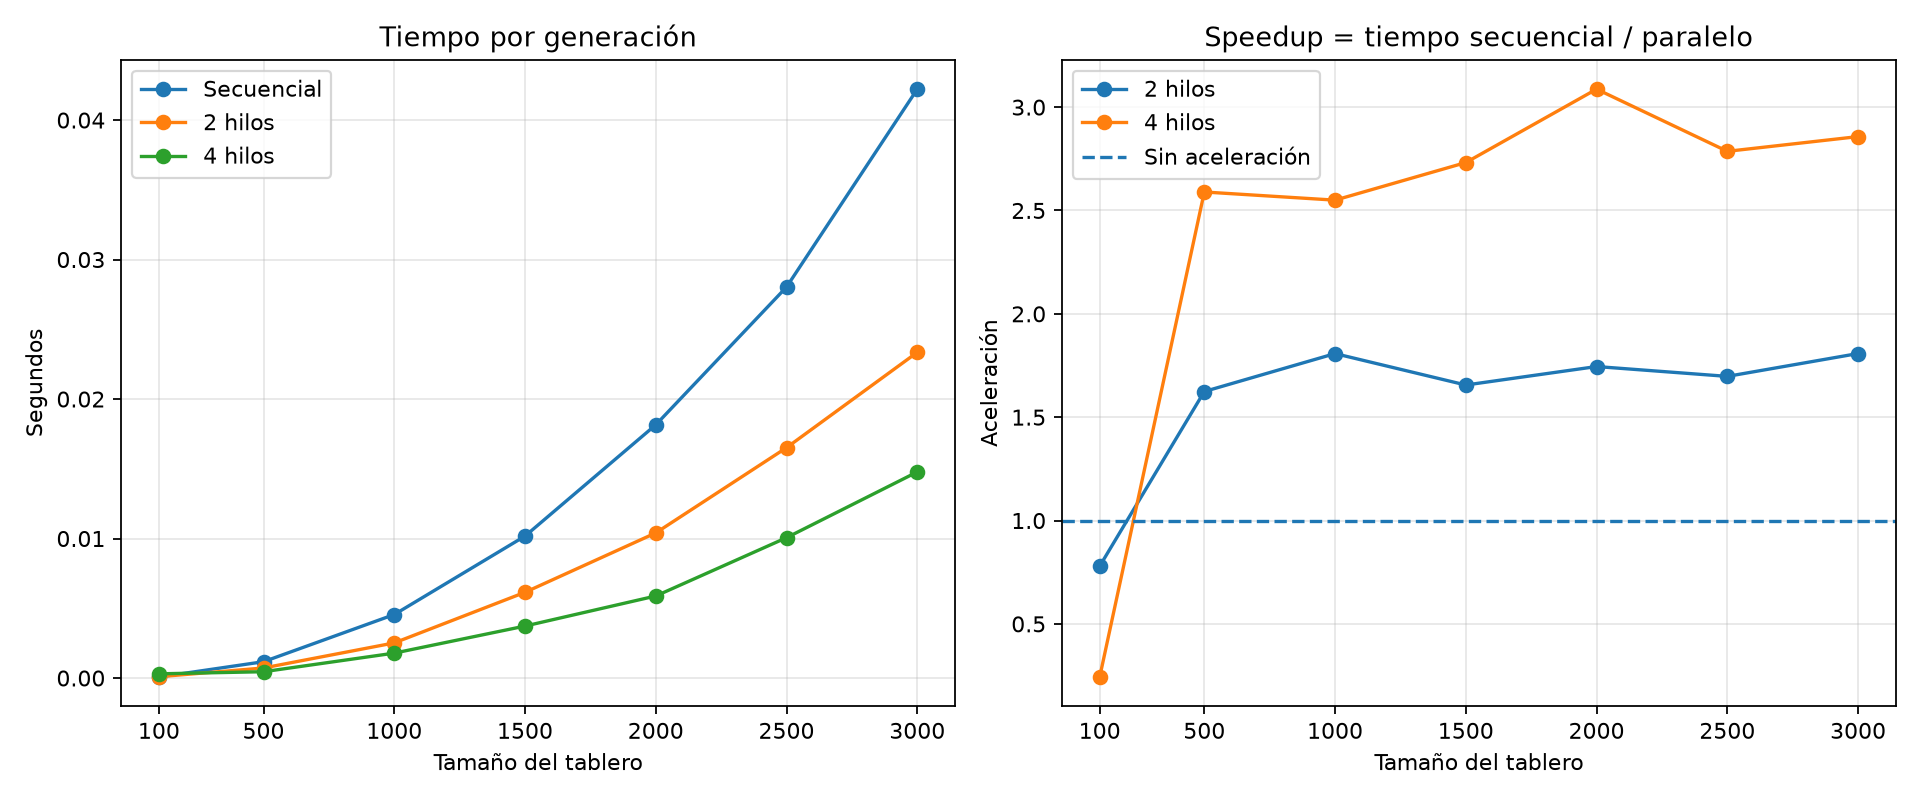
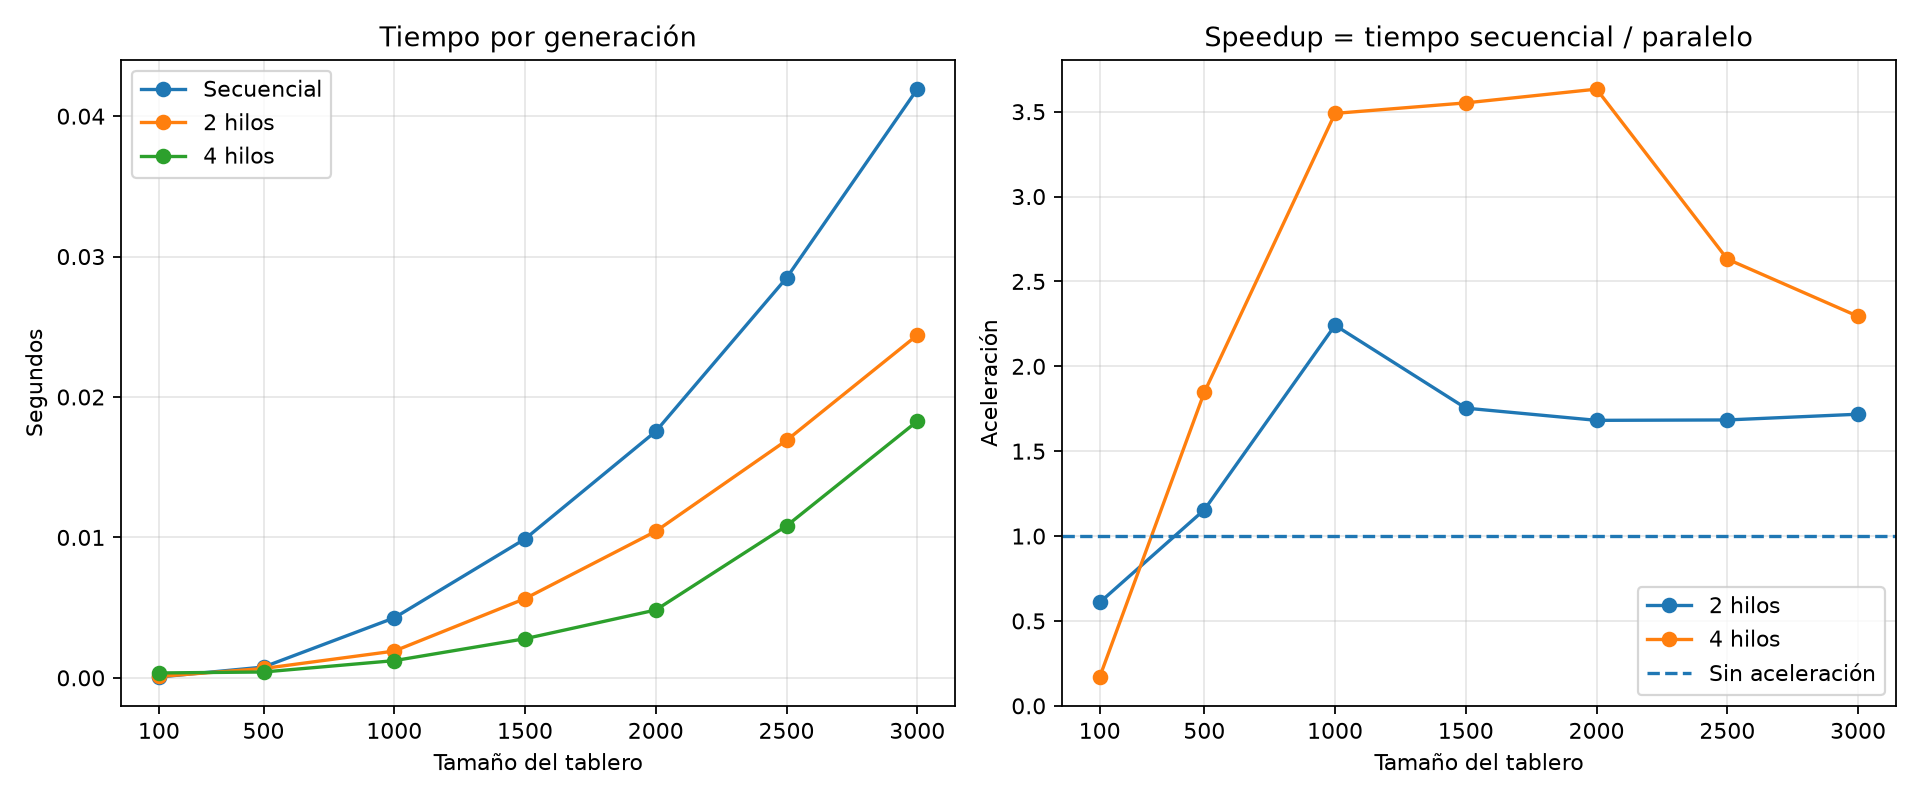
Se agregan los resultados de la prueba con 100 generaciones y 5 repeticiones

diff --git a/benchmarkhilos.py b/benchmarkhilos.py
@@ -14,7 +14,7 @@ from parallelt import avanzar_hilos
 SIZES = [100, 500, 1000, 1500, 2000, 2500, 3000]
 THREAD_COUNTS = [2, 4]
 GENERATIONS = 100
-REPEATS = 1
+REPEATS = 5
 
 
 def measure_sequential(board):
